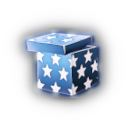
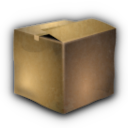
- Add example relics - Adjust wording of PShifts - Fix warning showing up for multiskills - Fix node tooltips being borked

diff --git a/src/main/java/pinacolada/relics/pcl/UsefulBox.java b/src/main/java/pinacolada/relics/pcl/UsefulBox.java
@@ -1,43 +1,21 @@
 package pinacolada.relics.pcl;
 
-import pinacolada.actions.PCLActions;
 import pinacolada.annotations.VisibleRelic;
-import pinacolada.cards.base.PCLCard;
-import pinacolada.dungeon.CombatManager;
-import pinacolada.interfaces.subscribers.OnAllySummonSubscriber;
-import pinacolada.monsters.PCLCardAlly;
-import pinacolada.relics.PCLRelic;
+import pinacolada.relics.PCLPointerRelic;
 import pinacolada.relics.PCLRelicData;
+import pinacolada.skills.skills.PShift;
+import pinacolada.skills.skills.base.moves.PMove_ObtainCard;
 
 @VisibleRelic
-public class UsefulBox extends PCLRelic implements OnAllySummonSubscriber {
-    public static final PCLRelicData DATA = register(UsefulBox.class).setProps(RelicTier.SPECIAL, LandingSound.SOLID);
+public class UsefulBox extends PCLPointerRelic {
+    public static final PCLRelicData DATA = registerTemplate(UsefulBox.class)
+            .setTier(RelicTier.SPECIAL);
 
     public UsefulBox() {
         super(DATA);
     }
 
-    @Override
-    public void atBattleStart() {
-        CombatManager.subscribe(OnAllySummonSubscriber.class, this);
-        setCounter(1);
-    }
-
-    public void atTurnStart() {
-        setCounter(1);
-    }
-
-    public int getValue() {
-        return 2;
-    }
-
-    @Override
-    public void onAllySummon(PCLCard card, PCLCardAlly ally) {
-        if (counter > 0) {
-            PCLActions.delayed.gainBlock(getValue());
-            PCLActions.delayed.gainBlock(ally, getValue());
-            addCounter(-1);
-            flash();
-        }
+    public void setup() {
+        addUseMove(PShift.obtain(), new PMove_ObtainCard(3, 6));
     }
 }

diff --git a/src/main/java/pinacolada/skills/skills/PShift.java b/src/main/java/pinacolada/skills/skills/PShift.java
@@ -1,7 +1,11 @@
 package pinacolada.skills.skills;
 
 import pinacolada.interfaces.markers.OutOfCombatMove;
-import pinacolada.skills.*;
+import pinacolada.interfaces.markers.PMultiBase;
+import pinacolada.skills.PPrimary;
+import pinacolada.skills.PSkill;
+import pinacolada.skills.PSkillData;
+import pinacolada.skills.PSkillSaveData;
 import pinacolada.skills.fields.PField_Empty;
 import pinacolada.skills.skills.base.primary.PShift_OnObtain;
 import pinacolada.skills.skills.base.primary.PShift_OnRemove;
@@ -26,17 +30,18 @@ public abstract class PShift extends PPrimary<PField_Empty> {
 
     @Override
     public String getText(boolean addPeriod) {
-        return getCapitalSubText(addPeriod) + (childEffect != null ? ((childEffect instanceof PCond ? EFFECT_SEPARATOR : ": ") + childEffect.getText(addPeriod)) : "");
+        return getCapitalSubText(addPeriod) + (childEffect != null ? (": " + childEffect.getText(addPeriod)) : "");
     }
 
     @Override
     public String getSubText() {
-        return TEXT.cond_onGeneric(getDelegateText());
+        return TEXT.cond_whenSingle(getDelegateText());
     }
 
     @Override
     public boolean isSkillAllowed(PSkill<?> skill) {
-        return skill instanceof PPassiveCond ||
+        return skill instanceof PMultiBase ||
+                skill instanceof PPassiveCond ||
                 skill instanceof PPassiveMod ||
                 skill instanceof OutOfCombatMove;
     }

diff --git a/src/main/java/pinacolada/relics/PCLCustomRelicSlot.java b/src/main/java/pinacolada/relics/PCLCustomRelicSlot.java
@@ -50,10 +50,10 @@ public class PCLCustomRelicSlot extends PCLCustomEditorLoadable<PCLDynamicRelicD
         PROVIDERS.add(provider);
     }
 
-    // Only allow a card to be copied into a custom card slot if it is a PCLCard and if all of its skills are in AVAILABLE_SKILLS (i.e. selectable in the card editor)
-    public static boolean canFullyRelicCard(AbstractRelic card) {
-        if (card instanceof PCLPointerRelic) {
-            return EUIUtils.all(((PCLPointerRelic) card).getFullSubEffects(), skill -> skill != null && skill.getClass().isAnnotationPresent(VisibleSkill.class));
+    // Only allow a relic to be copied into a custom slot if it is a PCLPointerRelic and if all of its skills are in AVAILABLE_SKILLS (i.e. selectable in the editor)
+    public static boolean canFullyCopyRelic(AbstractRelic relic) {
+        if (relic instanceof PCLPointerRelic) {
+            return EUIUtils.all(((PCLPointerRelic) relic).getFullSubEffects(), skill -> skill != null && skill.getClass().isAnnotationPresent(VisibleSkill.class));
         }
         return false;
     }

diff --git a/src/main/java/pinacolada/relics/pcl/HomeRunBats.java b/src/main/java/pinacolada/relics/pcl/HomeRunBats.java
@@ -1,0 +1,28 @@
+package pinacolada.relics.pcl;
+
+import com.megacrit.cardcrawl.cards.AbstractCard;
+import pinacolada.annotations.VisibleRelic;
+import pinacolada.powers.PCLPowerHelper;
+import pinacolada.relics.PCLPointerRelic;
+import pinacolada.relics.PCLRelicData;
+import pinacolada.skills.PCond;
+import pinacolada.skills.PMove;
+import pinacolada.skills.skills.PBranchCond;
+import pinacolada.skills.skills.PTrigger;
+
+@VisibleRelic
+public class HomeRunBats extends PCLPointerRelic {
+    public static final PCLRelicData DATA = registerTemplate(HomeRunBats.class)
+            .setTier(RelicTier.SPECIAL);
+
+    public HomeRunBats() {
+        super(DATA);
+    }
+
+    public void setup() {
+        addUseMove(PTrigger.when(PCond.onOtherCardPlayed(AbstractCard.CardType.ATTACK),
+                PBranchCond.branch(PCond.checkPowerSingle(2, PCLPowerHelper.LockOn),
+                        PMove.gain(1, PCLPowerHelper.Critical),
+                        PMove.applyToSingle(1, PCLPowerHelper.LockOn))));
+    }
+}

diff --git a/src/main/java/pinacolada/cards/base/PCLCard.java b/src/main/java/pinacolada/cards/base/PCLCard.java
@@ -221,7 +221,7 @@ public abstract class PCLCard extends AbstractCard implements KeywordProvider, E
     }
 
     protected static <T extends PCLCardData> T registerCardData(T cardData) {
-        return PCLCardData.reigsterData(cardData);
+        return PCLCardData.registerData(cardData);
     }
 
     protected static TemplateCardData registerTemplate(Class<? extends PCLCard> type, String sourceID) {
@@ -229,7 +229,7 @@ public abstract class PCLCard extends AbstractCard implements KeywordProvider, E
     }
 
     protected static TemplateCardData registerTemplate(Class<? extends PCLCard> type, PCLResources<?, ?, ?, ?> resources, String sourceID) {
-        return PCLCardData.reigsterData(new TemplateCardData(type, resources, sourceID));
+        return PCLCardData.registerData(new TemplateCardData(type, resources, sourceID));
     }
 
     protected static int[] ups(int damage, int block) {

diff --git a/src/main/java/pinacolada/skills/skills/base/primary/PTrigger_CombatEnd.java b/src/main/java/pinacolada/skills/skills/base/primary/PTrigger_CombatEnd.java
@@ -3,6 +3,7 @@ package pinacolada.skills.skills.base.primary;
 import pinacolada.annotations.VisibleSkill;
 import pinacolada.cards.base.fields.PCLCardTarget;
 import pinacolada.interfaces.markers.OutOfCombatMove;
+import pinacolada.interfaces.markers.PMultiBase;
 import pinacolada.interfaces.subscribers.OnBattleEndSubscriber;
 import pinacolada.skills.PSkill;
 import pinacolada.skills.PSkillData;
@@ -57,7 +58,8 @@ public class PTrigger_CombatEnd extends PTrigger implements OnBattleEndSubscribe
 
     @Override
     public boolean isSkillAllowed(PSkill<?> skill) {
-        return skill instanceof PPassiveCond ||
+        return skill instanceof PMultiBase ||
+                skill instanceof PPassiveCond ||
                 skill instanceof PPassiveMod ||
                 skill instanceof OutOfCombatMove;
     }

diff --git a/src/main/java/pinacolada/relics/PCLRelic.java b/src/main/java/pinacolada/relics/PCLRelic.java
@@ -77,6 +77,18 @@ public abstract class PCLRelic extends AbstractRelic implements KeywordProvider 
         return PCLRelicData.registerData(cardData);
     }
 
+    protected static TemplateRelicData registerTemplate(Class<? extends PCLRelic> type) {
+        return registerTemplate(type, PGR.core, type.getSimpleName());
+    }
+
+    protected static TemplateRelicData registerTemplate(Class<? extends PCLRelic> type, String sourceID) {
+        return registerTemplate(type, PGR.core, sourceID);
+    }
+
+    protected static TemplateRelicData registerTemplate(Class<? extends PCLRelic> type, PCLResources<?, ?, ?, ?> resources, String sourceID) {
+        return PCLRelicData.registerData(new TemplateRelicData(type, resources, sourceID));
+    }
+
     protected void activateBattleEffect() {
 
     }

diff --git a/src/main/java/pinacolada/skills/skills/base/primary/PTrigger_Passive.java b/src/main/java/pinacolada/skills/skills/base/primary/PTrigger_Passive.java
@@ -2,6 +2,7 @@ package pinacolada.skills.skills.base.primary;
 
 import pinacolada.annotations.VisibleSkill;
 import pinacolada.cards.base.fields.PCLCardTarget;
+import pinacolada.interfaces.markers.PMultiBase;
 import pinacolada.skills.PSkill;
 import pinacolada.skills.PSkillData;
 import pinacolada.skills.PSkillSaveData;
@@ -44,7 +45,8 @@ public class PTrigger_Passive extends PTrigger {
 
     @Override
     public boolean isSkillAllowed(PSkill<?> skill) {
-        return skill instanceof PPassiveCond ||
+        return skill instanceof PMultiBase ||
+                skill instanceof PPassiveCond ||
                 skill instanceof PPassiveMod ||
                 skill instanceof PTrait;
     }

diff --git a/src/main/java/pinacolada/ui/editor/relic/PCLCustomRelicSelectorScreen.java b/src/main/java/pinacolada/ui/editor/relic/PCLCustomRelicSelectorScreen.java
@@ -212,14 +212,13 @@ public class PCLCustomRelicSelectorScreen extends AbstractMenuScreen {
         return list;
     }
 
-    // TODO add replacement cards
     private ArrayList<AbstractRelic> getAvailableRelicsToCopy() {
         return EUIUtils.mapAsNonnull(TemplateRelicData.getTemplates(),
                 data -> {
                     PCLRelic relic = data.create();
                     UnlockTracker.markRelicAsSeen(data.ID);
                     relic.isSeen = true;
-                    return PCLCustomRelicSlot.canFullyRelicCard(relic) ? relic : null;
+                    return PCLCustomRelicSlot.canFullyCopyRelic(relic) ? relic : null;
                 });
     }
 

diff --git a/src/main/java/pinacolada/cards/base/TemplateCardData.java b/src/main/java/pinacolada/cards/base/TemplateCardData.java
@@ -1,6 +1,5 @@
 package pinacolada.cards.base;
 
-import extendedui.EUIUtils;
 import org.apache.commons.lang3.StringUtils;
 import pinacolada.resources.PCLResources;
 
@@ -16,12 +15,6 @@ public class TemplateCardData extends PCLCardData {
         super(type, resources);
         this.originalID = sourceID;
         TEMPLATES.put(sourceID, this);
-        if (TEMPLATES.isEmpty()) {
-            EUIUtils.logInfo(this, "Templates was empty", TEMPLATES.size());
-        }
-        else {
-            EUIUtils.logInfo(this, "Templates was not empty", TEMPLATES.size());
-        }
     }
 
     public static TemplateCardData getTemplate(String original) {

diff --git a/src/main/java/pinacolada/relics/TemplateRelicData.java b/src/main/java/pinacolada/relics/TemplateRelicData.java
@@ -1,6 +1,5 @@
 package pinacolada.relics;
 
-import extendedui.EUIUtils;
 import org.apache.commons.lang3.StringUtils;
 import pinacolada.resources.PCLResources;
 
@@ -16,12 +15,6 @@ public class TemplateRelicData extends PCLRelicData {
         super(type, resources);
         this.originalID = sourceID;
         TEMPLATES.put(sourceID, this);
-        if (TEMPLATES.isEmpty()) {
-            EUIUtils.logInfo(this, "Templates was empty", TEMPLATES.size());
-        }
-        else {
-            EUIUtils.logInfo(this, "Templates was not empty", TEMPLATES.size());
-        }
     }
 
     public static TemplateRelicData getTemplate(String original) {

diff --git a/src/main/java/pinacolada/skills/skills/base/primary/PTrigger_When.java b/src/main/java/pinacolada/skills/skills/base/primary/PTrigger_When.java
@@ -1,6 +1,7 @@
 package pinacolada.skills.skills.base.primary;
 
 import pinacolada.annotations.VisibleSkill;
+import pinacolada.interfaces.markers.PMultiBase;
 import pinacolada.interfaces.subscribers.PCLCombatSubscriber;
 import pinacolada.skills.PCond;
 import pinacolada.skills.PSkill;
@@ -29,6 +30,6 @@ public class PTrigger_When extends PTrigger {
 
     @Override
     public boolean isSkillAllowed(PSkill<?> skill) {
-        return !(skill instanceof PCond) || skill instanceof PCLCombatSubscriber;
+        return !(skill instanceof PCond) || skill instanceof PMultiBase || skill instanceof PCLCombatSubscriber;
     }
 }
